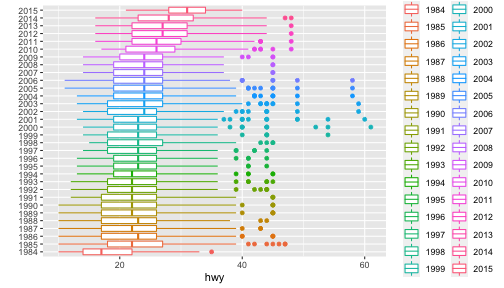
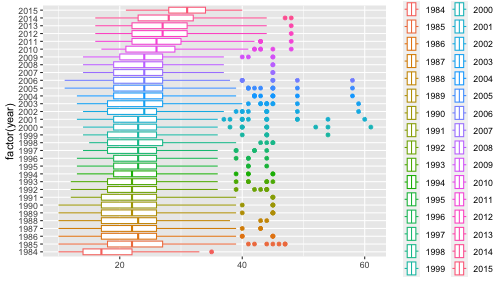
Remove coord_flip() command no longer needed with boxplot

diff --git a/EDA_part2.html b/EDA_part2.html
@@ -4,7 +4,7 @@
     <title>Exploratory Data Analysis: Part 2</title>
     <meta charset="utf-8" />
     <meta name="author" content="Eric Nordmoe" />
-    <script src="libs/header-attrs-2.14/header-attrs.js"></script>
+    <script src="libs/header-attrs-2.19/header-attrs.js"></script>
     <link rel="stylesheet" href="xaringan-themer.css" type="text/css" />
     <link rel="stylesheet" href="scrollingbox.css" type="text/css" />
   </head>
@@ -137,10 +137,9 @@ class: center, top
 ```r
 library(fueleconomy)
 cardata &lt;- vehicles %&gt;% semi_join(common)
-ggplot(data = cardata, aes(x = year, y = hwy)) +
+ggplot(data = cardata, aes(x = hwy, y = year)) +
   geom_boxplot() + 
-  coord_flip() + 
-  labs(x = "")
+  labs(y = "")
 ```
 
 ![](EDA_part2_files/figure-html/unnamed-chunk-1-1.png)&lt;!-- --&gt;
@@ -151,9 +150,8 @@ ggplot(data = cardata, aes(x = year, y = hwy)) +
 
 
 ```r
-ggplot(data = cardata, aes(x = factor(year), y = hwy, color = factor(year))) +
+ggplot(data = cardata, aes(x = hwy, y = factor(year), color = factor(year))) +
   geom_boxplot() + 
-  coord_flip() + 
   labs(x = "")
 ```
 
@@ -164,9 +162,8 @@ ggplot(data = cardata, aes(x = factor(year), y = hwy, color = factor(year))) +
 
 
 ```r
-ggplot(data = cardata, aes(x =  reorder(factor(year), -hwy, median), y = hwy, color = factor(year))) + 
+ggplot(data = cardata, aes(x = hwy, y =  reorder(factor(year), -hwy, median),  color = factor(year))) + 
   geom_boxplot() + 
-  coord_flip() + 
   labs(x = "")
 ```
 
